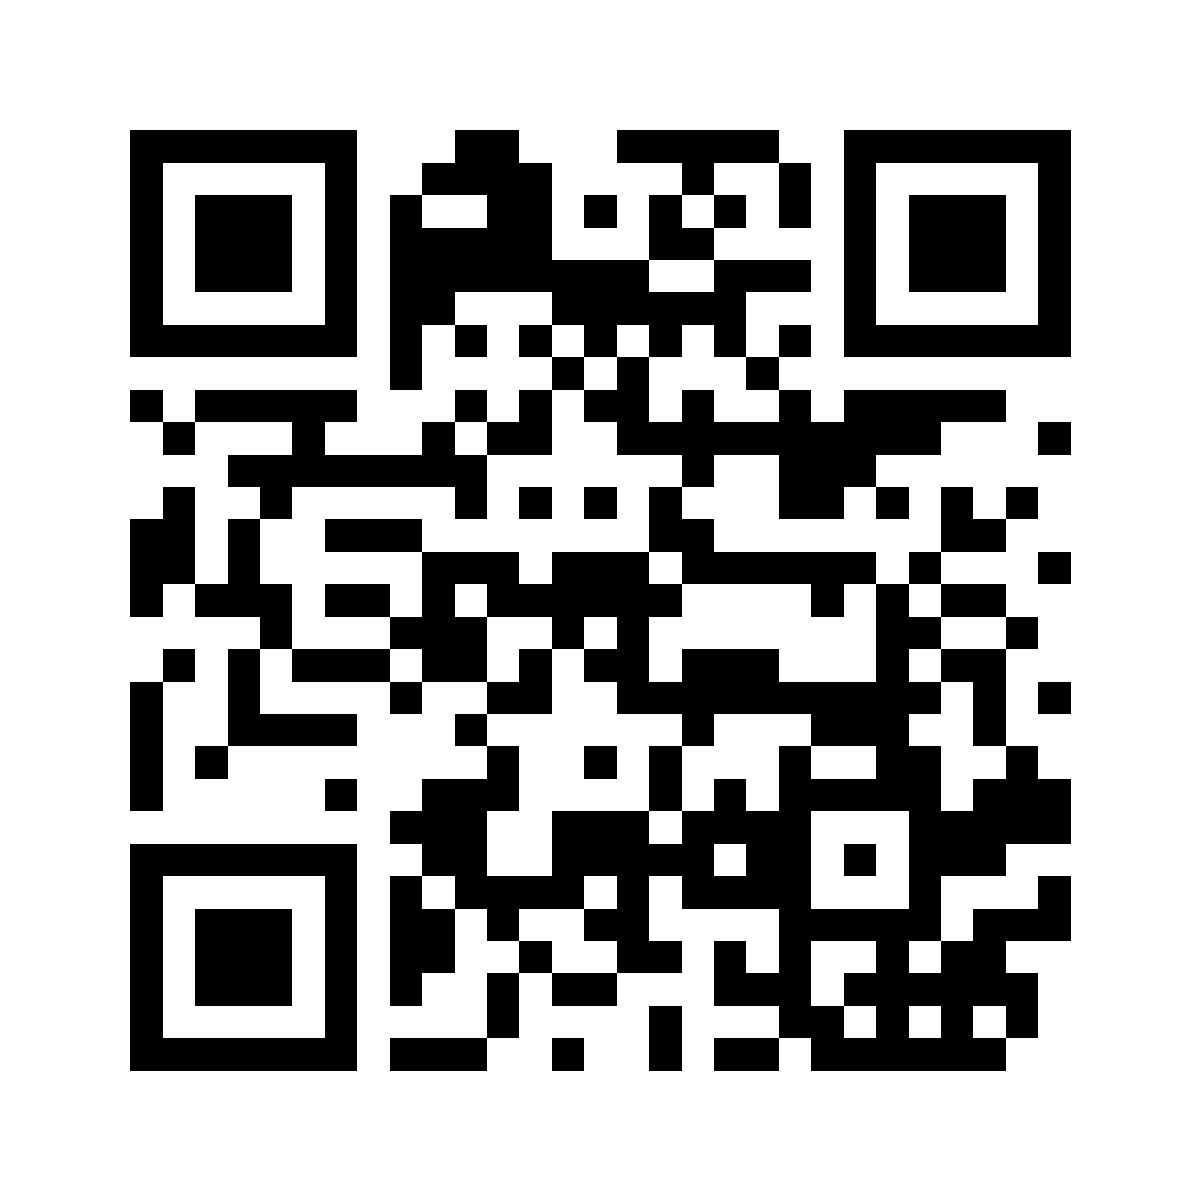
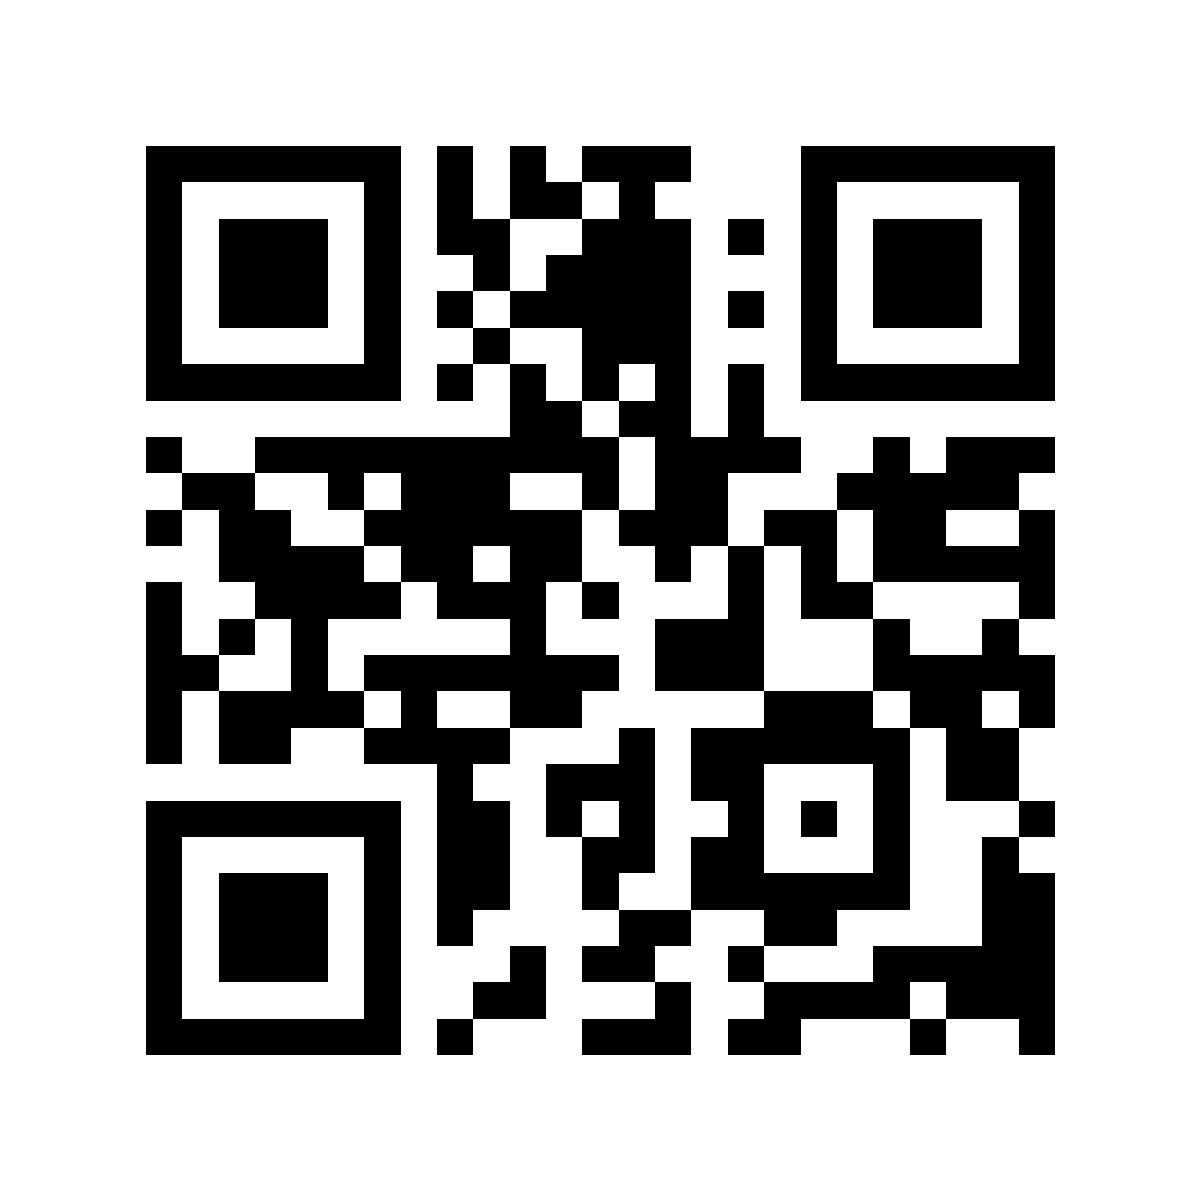
Use non-www domain for business card links and QR codes

diff --git a/src/data/business.ts b/src/data/business.ts
@@ -3,8 +3,8 @@ export const business = {
   tagline: "Great Hair Travels.",
   owner: "Elisabeth",
   url: "https://hairnthere.com",
-  cardDestination: "https://www.hairnthere.com/",
-  cardWebsiteLabel: "www.hairnthere.com",
+  cardDestination: "https://hairnthere.com/",
+  cardWebsiteLabel: "hairnthere.com",
   instagramUrl:
     process.env.NEXT_PUBLIC_INSTAGRAM_URL ||
     "https://www.instagram.com/hairnthere/",

diff --git a/docs/digital-business-card.md b/docs/digital-business-card.md
@@ -6,7 +6,7 @@ The homepage’s full QR sharing section sits at the bottom, above the footer. A
 
 `/card` is a dedicated presentation page without the site navigation/footer. Its QR grows to the available viewport width or height, whichever is smaller. A landscape layout preserves space on short screens. “Fill screen” opens an accessible Base UI sheet with minimal surrounding UI, keyboard dismissal and focus restoration. This fills the browser viewport; it does not change device brightness, lock orientation, request camera access or promise removal of browser chrome. Normal scrolling and zoom remain available. The QR and direct website link are server rendered and work without JavaScript. Copying and the enlarged view require JavaScript.
 
-The QR points to `business.cardDestination` (`https://www.hairnthere.com/`), not back to the presentation page. Visitors scan Elisabeth’s screen to open the business homepage on their own phones. Both themes keep the QR black on white, with a four-module quiet zone and no overlaid logo. SVG keeps screen scaling crisp; the downloadable PNG is 1200 × 1200 pixels.
+The QR points to `business.cardDestination` (`https://hairnthere.com/`), not back to the presentation page. The copy link and displayed website use this same non-www domain. Visitors scan Elisabeth’s screen to open the business homepage on their own phones. Both themes keep the QR black on white, with a four-module quiet zone and no overlaid logo. SVG keeps screen scaling crisp; the downloadable PNG is 1200 × 1200 pixels.
 
 Run `pnpm create:card-qr` to regenerate the checked-in assets if the destination deliberately changes. Do not change an already printed destination casually. Before printing or door-to-door use, confirm domain/HTTPS redirects and scan from physical iPhone and Android devices under real lighting. Do not assume decoding an image locally proves a physical scan works.
 

diff --git a/docs/mountain-cinema.md b/docs/mountain-cinema.md
@@ -58,8 +58,8 @@ heading and photographic carousel, then a neighborhood welcome, unpriced service
 first-person biography and both Elisabeth portraits, compact FAQ disclosures,
 and the three-stage house-call inquiry. The large QR presentation lives at `/card`,
 linked from the app bar and slim footer. Keep **QR Code**
-visible in the app bar on mobile and desktop; it opens `/card`. The existing QR assets
-and `https://www.hairnthere.com/` destination remain unchanged.
+visible in the app bar on mobile and desktop; it opens `/card`. The QR assets and
+copy link use `https://hairnthere.com/` without www.
 
 The gallery uses shadcn’s carousel with 11 real portfolio posts collected from
 @justbeyou_hair without an API key. Content is server-rendered with local images;
